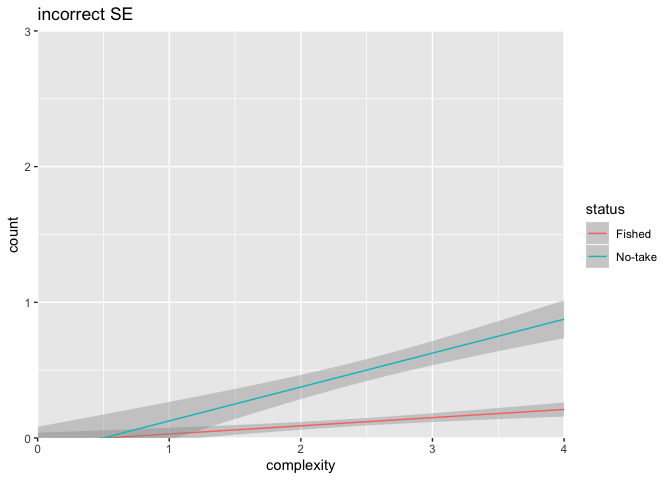
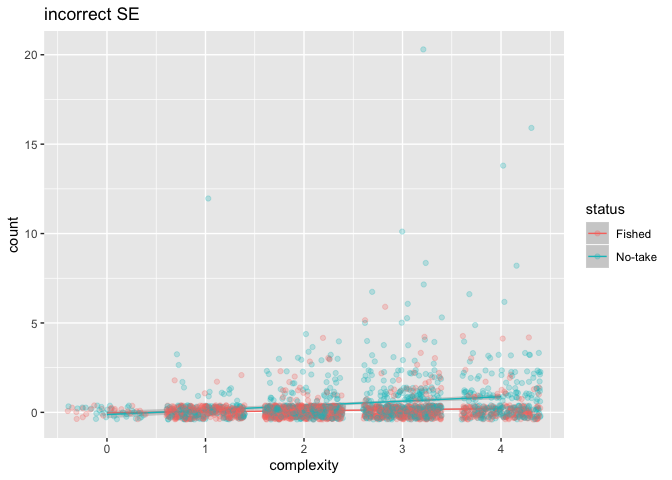
add points

diff --git a/4_lobster-density_advanced-plots.md b/4_lobster-density_advanced-plots.md
@@ -475,7 +475,8 @@ SE
 ``` r
  ggplot(dat%>%filter(size.class=="legal"), aes(x=complexity, y=count,colour=status)) + 
     geom_smooth(method=lm, size=0.5,se=T)+
-    coord_cartesian(ylim = c(0, 3), expand = FALSE)+
+    # coord_cartesian(ylim = c(0, 3), expand = FALSE)+
+  geom_jitter(alpha=0.25)+
   ggtitle("incorrect SE")
 ```
 
